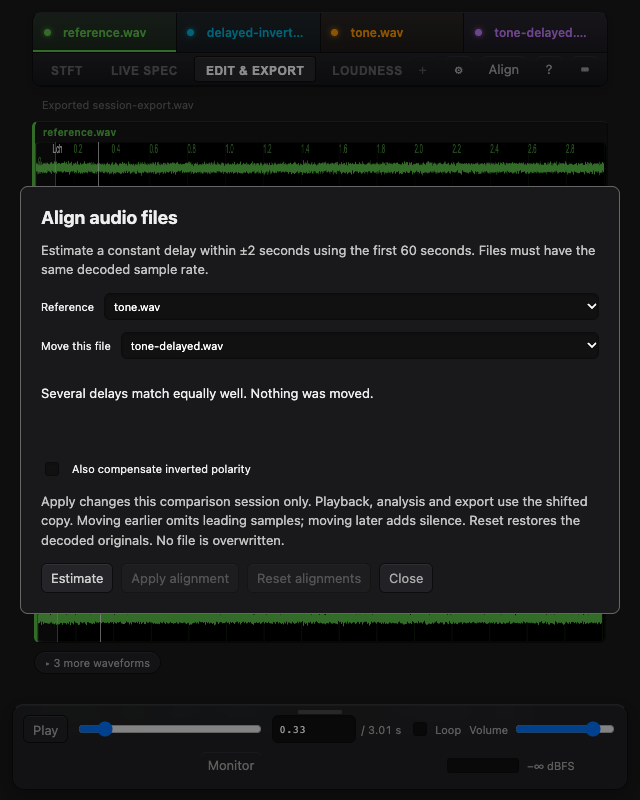
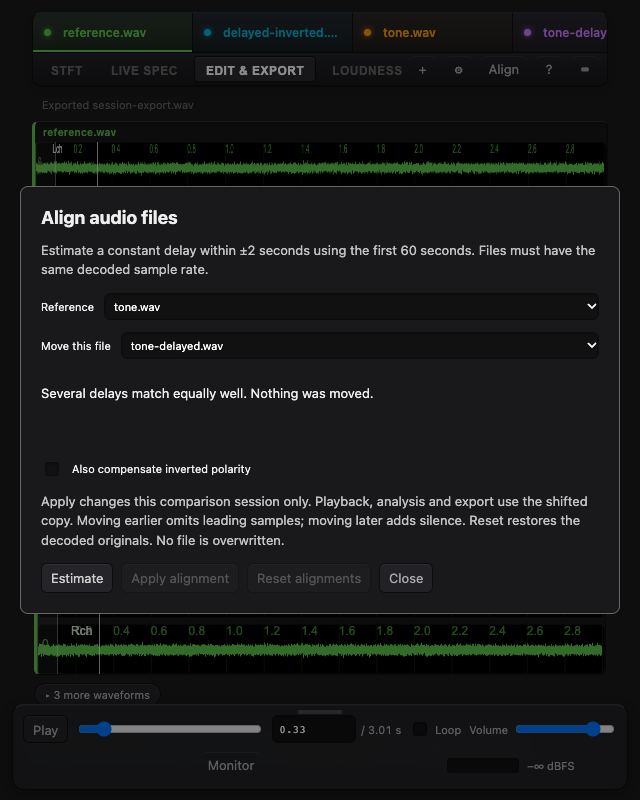
test: record main and native alignment acceptance

Changed region(s): [[0.0312, 0.75, 0.9375, 0.875], [0.3125, 0.0312, 0.6875, 0.0625], [0.75, 0.0312, 0.9375, 0.0625]]

diff --git a/doc/audio-alignment.md b/doc/audio-alignment.md
@@ -27,7 +27,7 @@ The operator supports mono/stereo input, accepts 8–192 kHz PCM, rejects nonfin
 - Existing integration files: `comparisonApp.ts` and `analysisWorker.ts`; no new host IPC message, build entry, runtime dependency, or playback/export graph was required.
 - Colocated tests cover delays, polarity, Side-only stereo, sparse/tail cases, invalid PCM lanes, request cancellation, buffer reset/reload, and host/local revision separation.
[1 lines of base64/hex data omitted]
-- Browser acceptance runs the actual production bundle, Blob worker, Web Audio playback, and two WAV exports. It verifies rejection, optional polarity correction, exact shifted/restored samples, file-update invalidation, mixed-rate rejection, and a narrow viewport. VS Code file/save dialogs are mocked; this is not a native IDE save-dialog test. [Browser result](metrics/alignment/browser.json).
+- Browser acceptance runs the actual production bundle, Blob worker, Web Audio playback, and two WAV exports. It verifies rejection, optional polarity correction, exact shifted/restored samples, file-update invalidation, mixed-rate rejection, and a narrow viewport. VS Code file/save dialogs are mocked in this automated browser run. A separate native VS Code extension-host check confirmed +523 samples, opt-in polarity correction, and a real save-dialog export whose 38,400 PCM bytes exactly match the browser result. [Native result](metrics/alignment/native.json). [Browser result](metrics/alignment/browser.json).
 
 From the repository root:
 
